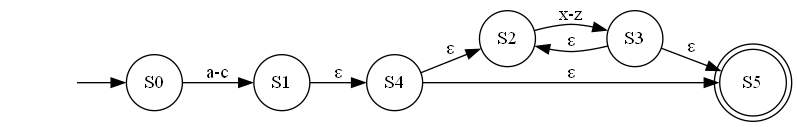
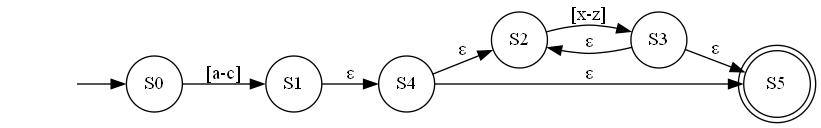
range_representation

diff --git a/main.py b/main.py
@@ -4,19 +4,19 @@ from nfa.NFAVisualizer import NFAVisualizer
 from nfa.NFABuilder import NFABuilder
 
 
-def process_regex(regex: str, output_name: str):
+def process_regex(regex: str, out_name: str):
     """Generates NFA JSON and image for given regex."""
     RegexValidator.validate(regex)
     nfa_builder = NFABuilder()
     nfa = nfa_builder.from_regex(regex)
 
     # Save JSON
-    json_path = f"{output_name}_nfa.json"
+    json_path = f"{out_name}_nfa.json"
     with open(json_path, "w") as f:
         f.write(nfa.to_json())
 
     # Save Image
-    img_path = f"{output_name}_nfa.png"
+    img_path = f"{out_name}_nfa.png"
     NFAVisualizer.save_image(nfa, img_path)
 
     print(f"NFA JSON saved: {json_path}")
@@ -63,6 +63,8 @@ def run_nfa_tests():
 
         # Mix of all operators
         "a(b|c)*d+",  # a followed by zero or more (b|c), then one or more d
+
+        "ab.c*d[a-c]", 
     ]
 
     for i, regex in enumerate(testcases, start=1):

diff --git a/regex/RegexTokenizer.py b/regex/RegexTokenizer.py
@@ -14,7 +14,7 @@ class RegexTokenizer:
         i = 0
         while i < len(regex):
             if regex[i] == "-":  # Handle ranges
-                tokens[-1] = (regex[i - 1:i + 2], "var")
+                tokens[-1] = (f"[{regex[i-1]}-{regex[i+1]}]", "var")
                 i += 2
             elif regex[i] in "()[]*+?_|":
                 tokens.append((regex[i], "op"))
